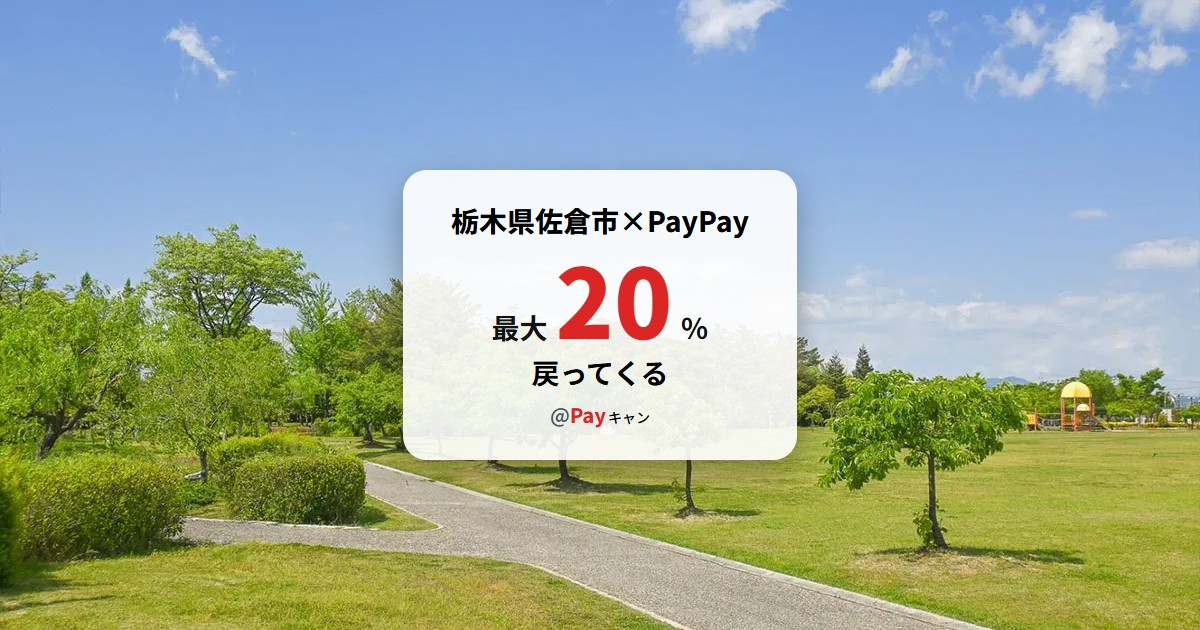
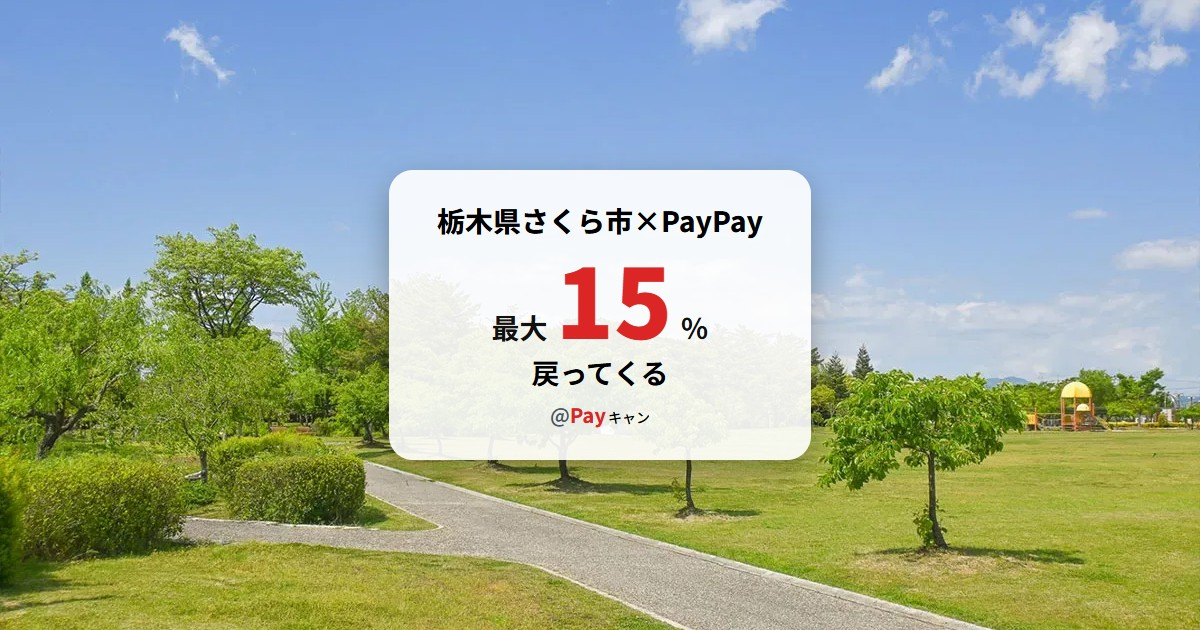
追加

Changed region(s): [[0.3083, 0.2714, 0.6783, 0.7238], [0.4625, 0.4222, 0.555, 0.5429]]

diff --git a/src/lib/campaignMasterOgp.ts b/src/lib/campaignMasterOgp.ts
@@ -1,8 +1,6 @@
 import type { Campaign } from "@/types/campaign";
 
 export const campaignsA: Campaign[] = [
-    { paytype: "paypay", prefectureSlug: "hokkaido", citySlug: "kitahiroshima", prefecture: "北海道", city: "北広島市", offer: 30, startDate: "2025-09-01", endDate: "2025-09-30", onepoint: "500", fullpoint: "2000", campaigntitle: "きたひろキャッシュレス決済キャンペーン！最大30％戻ってくる！", notice: "", datePublished: "2025-07-15", dateModified: "2025-07-15", officialUrl: "https://www.kitahironavi.or.jp/" },
-    { paytype: "paypay", prefectureSlug: "yamagata", citySlug: "sakata", prefecture: "山形県", city: "酒田市", offer: 10, startDate: "2025-09-01", endDate: "2025-09-30", onepoint: "1000", fullpoint: "3000", campaigntitle: "家計とお店を応援！酒田のお店で最大10％戻ってくるキャンペーン", notice: "", datePublished: "2025-07-15", dateModified: "2025-07-15", officialUrl: "https://www.city.sakata.lg.jp/index.html" },
-    { paytype: "paypay", prefectureSlug: "nagano", citySlug: "suzaka", prefecture: "長野県", city: "須坂市", offer: 15, startDate: "2025-09-01", endDate: "2025-09-30", onepoint: "1000", fullpoint: "3000", campaigntitle: "須坂市のお店を応援！キャッシュレスポイント還元キャンペーン", notice: "", datePublished: "2025-07-15", dateModified: "2025-07-15", officialUrl: "https://www.city.suzaka.nagano.jp/index.html" },
-    { paytype: "paypay", prefectureSlug: "yamaguchi", citySlug: "abu", prefecture: "山口県", city: "阿武町", offer: 20, startDate: "2025-09-01", endDate: "2025-10-31", onepoint: "5000", fullpoint: "5000", campaigntitle: "阿武町物価高騰対応生活支援！最大20%戻ってくるキャッシュレスキャンペーン", notice: "", datePublished: "2025-07-15", dateModified: "2025-07-15", officialUrl: "https://www.town.abu.lg.jp/" },
+    { paytype: "paypay", prefectureSlug: "tochigi", citySlug: "sakura", prefecture: "栃木県", city: "さくら市", offer: 15, startDate: "2025-09-12", endDate: "2025-10-13", onepoint: "1000", fullpoint: "10000", campaigntitle: "さくら市のお店を応援しよう！PayPayで最大15％戻ってくるキャンペーン！", notice: "", datePublished: "2025-08-01", dateModified: "2025-08-01", officialUrl: "https://www.city.tochigi-sakura.lg.jp/index.html" },
+    { paytype: "paypay", prefectureSlug: "mie", citySlug: "matsusaka", prefecture: "三重県", city: "松阪市", offer: 15, startDate: "2025-09-01", endDate: "2025-09-30", onepoint: "2000", fullpoint: "8000", campaigntitle: "生活支援！最大15％ポイント還元キャンペーンin松阪", notice: "", datePublished: "2025-08-01", dateModified: "2025-08-01", officialUrl: "https://www.city.matsusaka.mie.jp/" },
 ];
